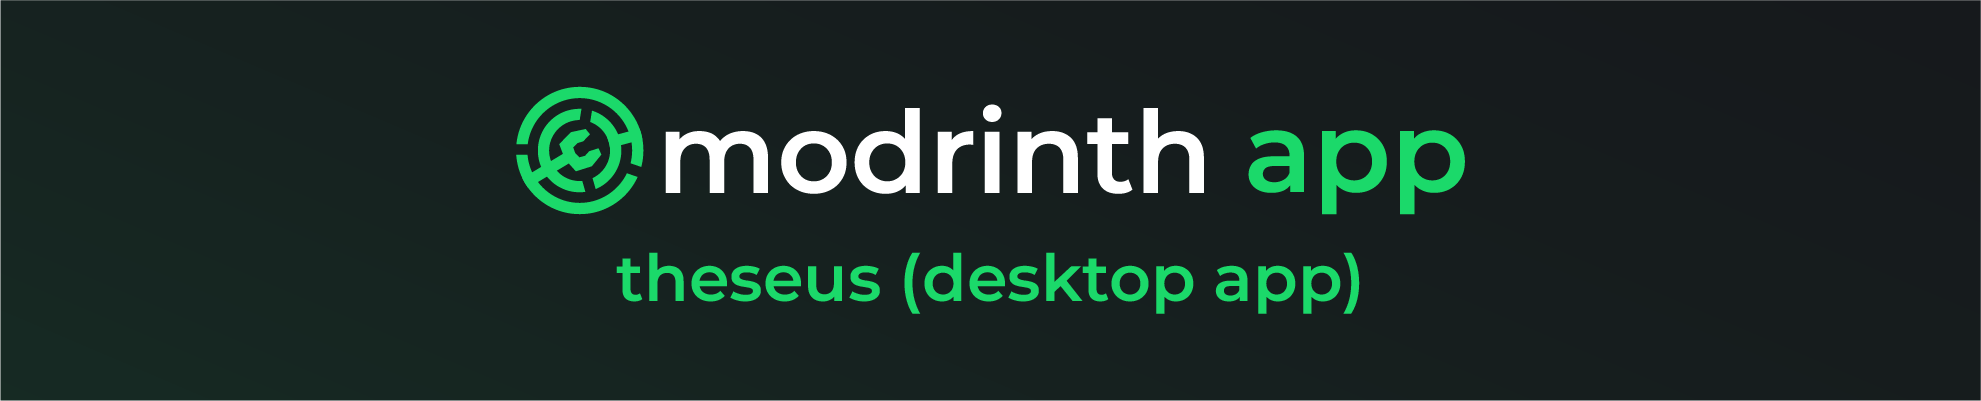
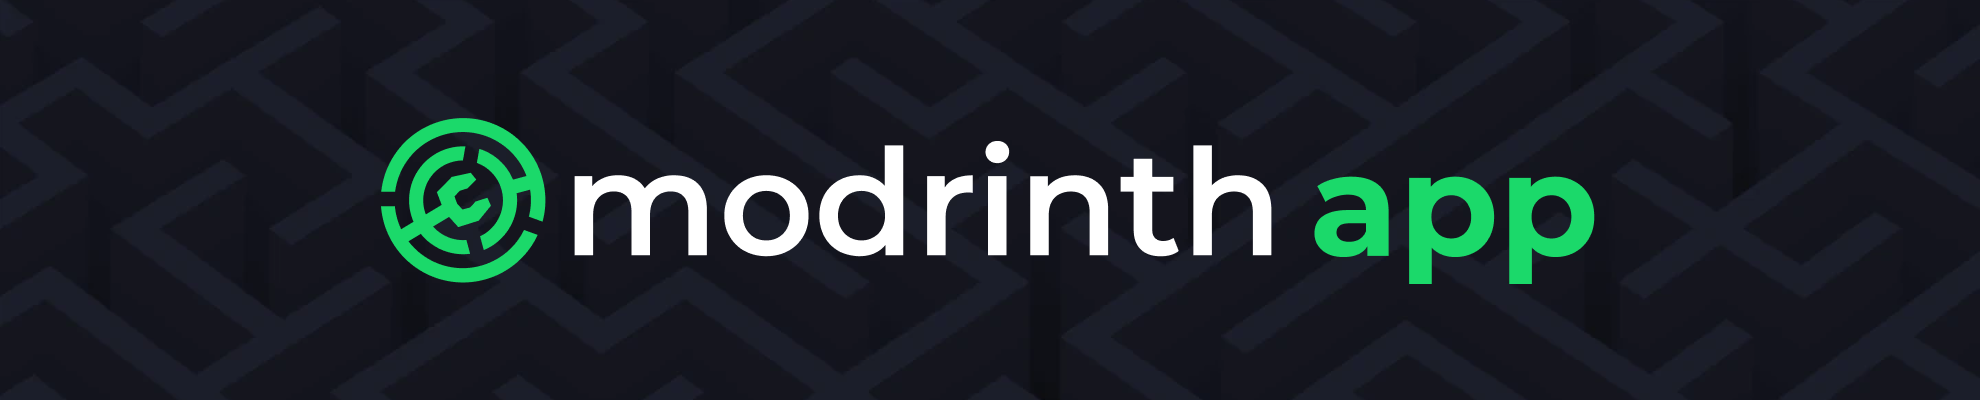
docs: rework repo covers and improve READMEs (#7929)
* feat: New covers

* feat: Impl new covers

* docs: Update COPYING.md

* docs: drop greek naming

* docs(ui): Add missing readme

* docs: Update readme

* docs: fix yellow on white contrast

* docs: fix logo artifacts in covers

Changed region(s): [[0.1848, 0.21, 0.8318, 0.78], [0.0, 0.99, 1.0, 1.0], [0.9859, 0.0, 1.0, 0.03]]

diff --git a/README.md b/README.md
@@ -1,4 +1,7 @@
-# ![Modrinth Monorepo Cover](/.github/assets/monorepo_cover.png)
+<picture>
+	<source media="(prefers-color-scheme: light)" srcset=".github/assets/monorepo_cover_light.png">
+	<img alt="Modrinth Monorepo Cover" src=".github/assets/monorepo_cover.png">
+</picture>
 
 ![Issues](https://img.shields.io/github/issues-raw/Modrinth/code?color=c78aff&label=issues&style=for-the-badge)
 ![Pull Requests](https://img.shields.io/github/issues-pr-raw/Modrinth/code?color=c78aff&label=PRs&style=for-the-badge)
@@ -9,16 +12,23 @@
 
 ## Modrinth Monorepo
 
-Welcome to the Modrinth Monorepo, the primary codebase for the Modrinth web interface and app. It contains ![Lines of code](https://img.shields.io/endpoint?url=https://loctopus.creeperkatze.dev/github/modrinth/code/badge%3Fformat%3Dhuman&logoColor=white&color=black&label=) lines of code and has ![Contributors](https://img.shields.io/github/contributors/Modrinth/code?color=black&label=) contributors!
+Welcome to the Modrinth Monorepo, the primary codebase for the Modrinth website, app, API and documentation. It contains ![Lines of code](https://img.shields.io/endpoint?url=https://loctopus.creeperkatze.dev/github/modrinth/code/badge%3Fformat%3Dhuman&logoColor=white&color=black&label=) lines of code and has ![Contributors](https://img.shields.io/github/contributors/Modrinth/code?color=black&label=) contributors!
 
 If you're not a developer and you've stumbled upon this repository, you can access the web interface on the [Modrinth website](https://modrinth.com) and download the latest release of the app [here](https://modrinth.com/app).
 
 ## Development
 
-This repository contains two primary packages. For detailed development information, please refer to their respective guides:
+This repository contains several projects. For detailed development information, please refer to their respective guides:
 
-- [Website frontend](https://docs.modrinth.com/contributing/knossos/)
-- [Desktop app](https://docs.modrinth.com/contributing/theseus/)
+| Project       | Directory              | Guide                                                     |
+| ------------- | ---------------------- | --------------------------------------------------------- |
+| Website       | `apps/frontend`        | [Guide](https://docs.modrinth.com/contributing/knossos/)  |
+| App           | `apps/app`             | [Guide](https://docs.modrinth.com/contributing/theseus/)  |
+| API           | `apps/labrinth`        | [Guide](https://docs.modrinth.com/contributing/labrinth/) |
+| Meta          | `apps/daedalus_client` | [Guide](https://docs.modrinth.com/contributing/daedalus/) |
+| Documentation | `apps/docs`            | [Guide](https://docs.modrinth.com/contributing/docs/)     |
+
+Shared libraries live in `packages/`.
 
 ## Contributing
 
@@ -36,4 +46,4 @@ If you need help with the Modrinth web interface or app, please visit our [suppo
 
 ## License
 
-All packages in this repository are licensed under their respective licenses. Refer to the LICENSE file in each package for more information.
+All packages in this repository are licensed under their respective licenses. See the [copying guidelines](COPYING.md) for details, including restrictions on Modrinth branding.

diff --git a/packages/ui/README.md b/packages/ui/README.md
@@ -1,0 +1,36 @@
+<picture>
+	<source media="(prefers-color-scheme: light)" srcset="../../.github/assets/ui_cover_light.png">
+	<img alt="Modrinth UI Cover" src="../../.github/assets/ui_cover.png">
+</picture>
+
+# @modrinth/ui
+
+The shared Vue 3 component library used by both the [Modrinth Website](../../apps/frontend) and the [Modrinth App](../../apps/app-frontend). Components are platform-agnostic, with platform-specific behavior provided through dependency injection.
+
+## Structure
+
+```
+src/
+├── components/   # Vue components, grouped by feature
+├── composables/  # Composition API hooks
+├── layouts/      # Page layouts shared between the website and app
+├── providers/    # Dependency injection contexts
+├── utils/        # Utility functions and constants
+├── locales/      # Translations
+├── styles/       # Tailwind CSS utilities
+└── stories/      # Storybook stories
+```
+
+Everything public is re-exported from [`index.ts`](./index.ts).
+
+## Development
+
+Browse and develop components in isolation with Storybook, from the repository root:
+
+```bash
+pnpm storybook
+```
+
+## License
+
+Licensed under the GNU General Public License v3. Modrinth branding is excluded, see [COPYING.md](./COPYING.md) for details.

diff --git a/COPYING.md b/COPYING.md
@@ -8,14 +8,11 @@ For detailed information, consult each package's COPYING.md, LICENSE.txt, or LIC
 
 The use of Modrinth branding elements, including but not limited to the wrench-in-labyrinth logo, the landing image, and any variations thereof, is strictly prohibited without explicit written permission from Rinth, Inc. This includes trademarks, logos, or other branding elements.
 
-> All rights reserved. © 2020-2025 Rinth, Inc.
+> All rights reserved. © 2020-2026 Rinth, Inc.
 
-This includes, but may not be limited to, the following files:
+This includes, but may not be limited to, the following files or directories:
 
 - .idea/icon.svg
-- .github/api_cover.png
-- .github/app_cover.png
-- .github/monorepo_cover.png
-- .github/web_cover.png
+- .github/assets/
 
 If you fork this repository, you must remove all Modrinth branding assets from your fork.

diff --git a/packages/api-client/README.md b/packages/api-client/README.md
@@ -1,3 +1,8 @@
+<picture>
+	<source media="(prefers-color-scheme: light)" srcset="https://raw.githubusercontent.com/modrinth/code/main/.github/assets/api_client_cover_light.png">
+	<img alt="Modrinth API Client Cover" src="https://raw.githubusercontent.com/modrinth/code/main/.github/assets/api_client_cover.png">
+</picture>
+
 # @modrinth/api-client
 
 [![TypeScript](https://img.shields.io/badge/TypeScript-5.0+-c78aff?style=for-the-badge)](https://www.typescriptlang.org/)

diff --git a/packages/daedalus/README.md b/packages/daedalus/README.md
@@ -1,3 +1,8 @@
+<picture>
+	<source media="(prefers-color-scheme: light)" srcset="https://raw.githubusercontent.com/modrinth/code/main/.github/assets/meta_cover_light.png">
+	<img alt="Modrinth Meta Cover" src="https://raw.githubusercontent.com/modrinth/code/main/.github/assets/meta_cover.png">
+</picture>
+
 # Daedalus
 
 Daedalus (the rust library) is a library providing model structs and methods for requesting and parsing things

diff --git a/apps/daedalus_client/README.md b/apps/daedalus_client/README.md
@@ -1,3 +1,8 @@
+<picture>
+	<source media="(prefers-color-scheme: light)" srcset="../../.github/assets/meta_cover_light.png">
+	<img alt="Modrinth Meta Cover" src="../../.github/assets/meta_cover.png">
+</picture>
+
 # Daedalus
 
 Daedalus is a powerful tool which queries and generates metadata for the Minecraft (and other games in the future!) game

diff --git a/apps/labrinth/README.md b/apps/labrinth/README.md
@@ -1,4 +1,7 @@
-![labrinth banner](/.github/assets/api_cover.png)
+<picture>
+	<source media="(prefers-color-scheme: light)" srcset="../../.github/assets/api_cover_light.png">
+	<img alt="Modrinth API Cover" src="../../.github/assets/api_cover.png">
+</picture>
 
 ## Modrinth's laboratory for its backend service & API!
 

diff --git a/apps/frontend/README.md b/apps/frontend/README.md
@@ -1,4 +1,7 @@
-# ![Frontend Cover](/.github/assets/web_cover.png)
+<picture>
+	<source media="(prefers-color-scheme: light)" srcset="../../.github/assets/web_cover_light.png">
+	<img alt="Modrinth Website Cover" src="../../.github/assets/web_cover.png">
+</picture>
 
 # Modrinth Web Interface
 

diff --git a/apps/docs/README.md b/apps/docs/README.md
@@ -1,3 +1,8 @@
+<picture>
+	<source media="(prefers-color-scheme: light)" srcset="../../.github/assets/docs_cover_light.png">
+	<img alt="Modrinth Docs Cover" src="../../.github/assets/docs_cover.png">
+</picture>
+
 # Modrinth Documentation
 
 Welcome to the Modrinth documentation!

diff --git a/apps/app/README.md b/apps/app/README.md
@@ -1,4 +1,7 @@
-# ![Modrinth App](/.github/assets/app_cover.png)
+<picture>
+	<source media="(prefers-color-scheme: light)" srcset="../../.github/assets/app_cover_light.png">
+	<img alt="Modrinth App Cover" src="../../.github/assets/app_cover.png">
+</picture>
 
 ## Modrinth App
 
